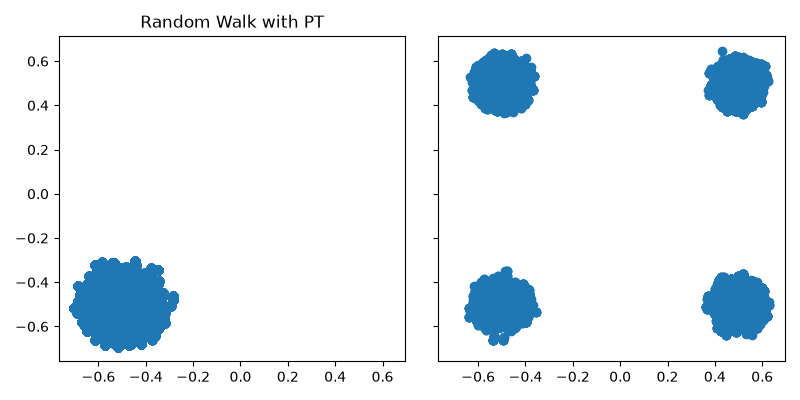
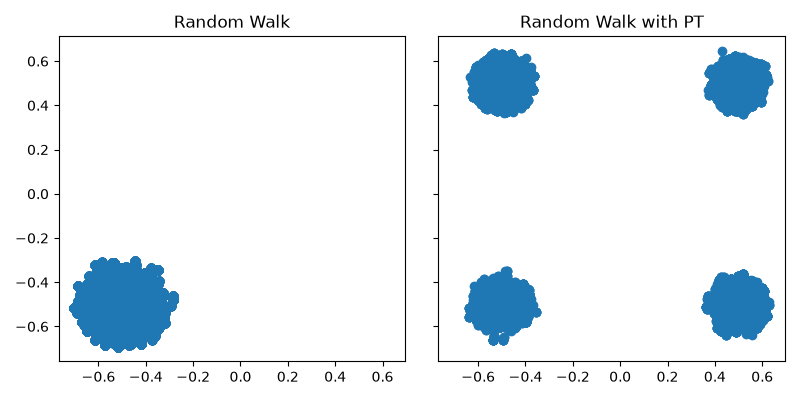
update

Changed region(s): [[0.1562, 0.03, 0.4062, 0.09], [0.625, 0.03, 0.875, 0.09]]

diff --git a/examples/gaussians.py b/examples/gaussians.py
@@ -38,7 +38,7 @@ ax_rw.scatter(xs_rw[:, 0], xs_rw[:, 1])
 ax_rw.set_title("Random Walk")
 
 ax_pt.scatter(xs_pt[:, 0], xs_pt[:, 1])
-ax_rw.set_title("Random Walk with PT")
+ax_pt.set_title("Random Walk with PT")
 
 plt.tight_layout()
 
